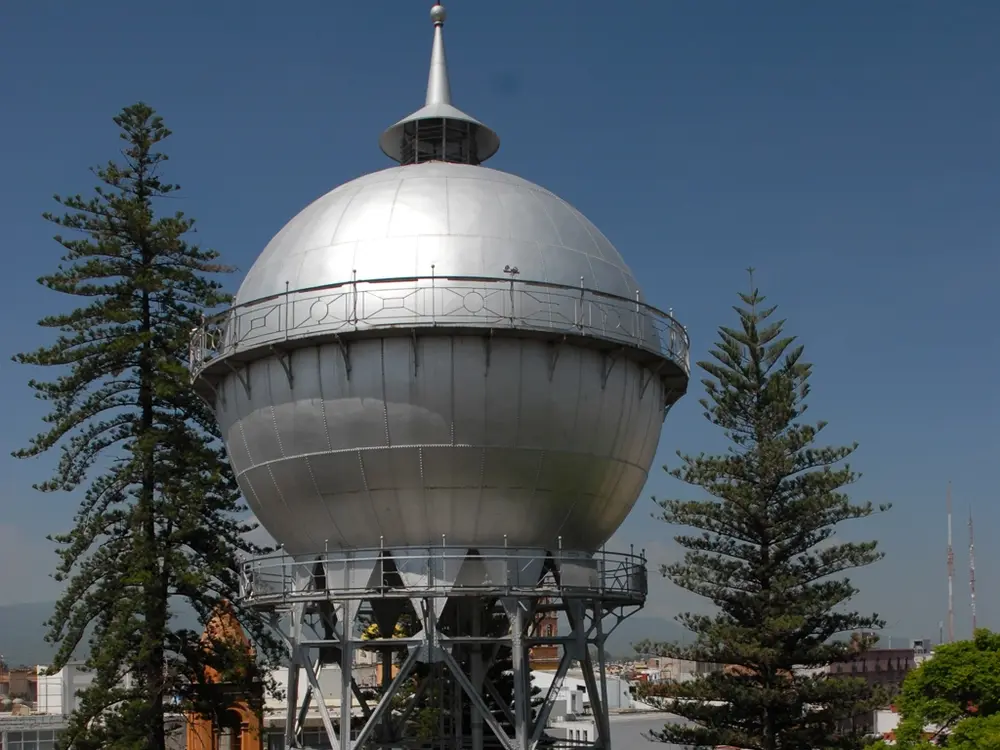
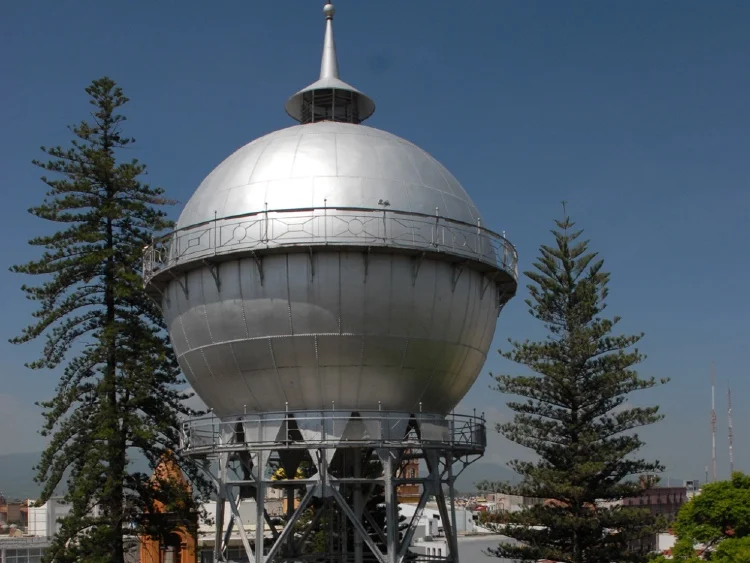
update home index

diff --git a/chamber/index.html b/chamber/index.html
@@ -33,8 +33,8 @@
     <div class="hero">
         <picture>
             <source srcset="images/hero-small.webp" media="(max-width:500px)">
-            <source srcset="images/hero-medium.webp" media="(max-width:800px)">
-            <img src="images/hero-large.webp" alt="CelayaCityBall" width="900" height="550">
+            <source srcset="images/hero-medium.webp" media="(max-width:900px)">
+            <img src="images/hero-large.webp" alt="CelayaCityBall" width="1100" height="800">
         </picture>
     </div>
     <div class="welcome-content">
